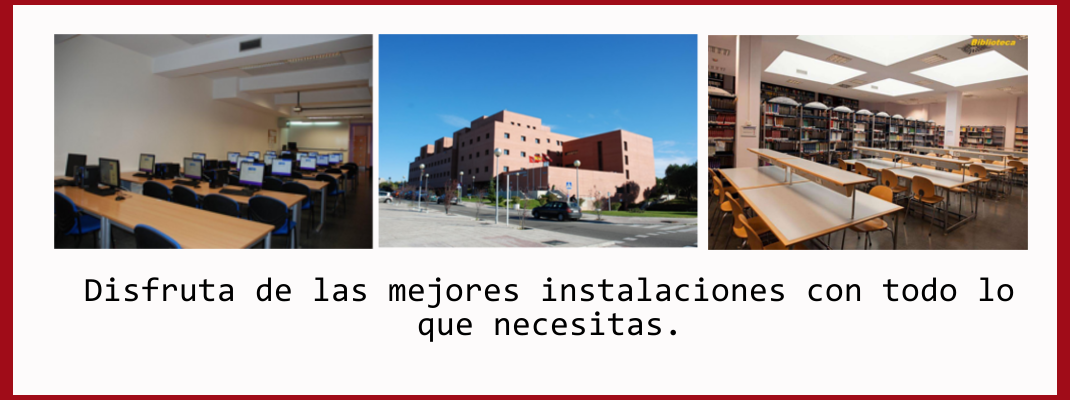
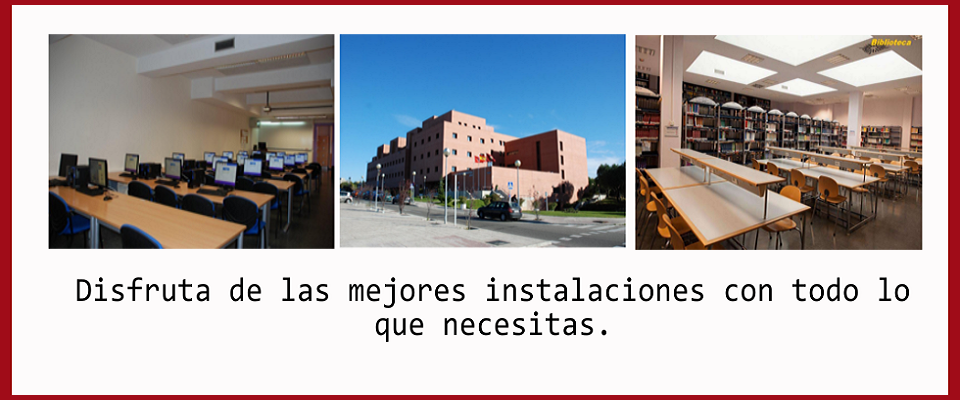
Arreglados slider, imágenes , texto y encales listo para merge con master

diff --git a/semanaDeLaCiencia.html b/semanaDeLaCiencia.html
@@ -100,14 +100,13 @@
 		<div class="spacer"></div>
 <div class="barra_nav"><a href="http://informatica.ucm.es/" title="Portada">Portada</a>&nbsp;»&nbsp;<a href="http://informatica.ucm.es/facultad" title="Facultad">Facultad</a>&nbsp;»&nbsp;<a href="http://informatica.ucm.es/eventos" title="Eventos">Eventos</a>&nbsp;»&nbsp;Semana de la Ciencia 2015</div>
 <h1>Semana de la Ciencia 2015</h1>
-<h2></h2>
 <div class="template_100_100" id="marco_01">
 	<div class="column" id="lista_1">
 	
 	<div class="wg_txt">
 				<div>
 				<!--En lugar de semana de la ciencia irá este título-->
-				<h1>Porque estudiar Informática en la UCM </h1>		
+					
 				<!--MODIFICAR A PARTIR DE AQUÍ-->
 					<div id="slider">
 						<section>
@@ -128,52 +127,14 @@
 											<img style="display: block; margin-left: auto; margin-right: auto;" title="slide3" src="Facultad%20de%20Inform%C3%A1tica.%20Universidad%20Complutense%20de%20Madrid_files/slide3.png" alt="Slide1"></th>
 										</article>                            
 									</div>
+									
 								</div>
 							</div>
 						</section>            
 					</div>
-					<h1>¿Qué es la informática?</h1>
-					<div id="texto" style ="width: 90%;margin-top: 30px;">
-					<p style="font-size: 1.25em;">
-					La informática es la ciencia que estudia el Tratamiento Automático de la Información.
-					La información son los datos, y el tratamiento de estos datos se hace mediante los sistemas informáticos que son los llamados Ordenadores.
-					Manejar un procesador de textos no se considera informática, sino ofimática, pero crear un programa con el que podamos editar textos si lo es.
-					<p>
-					</div>
-					<h1>Grados:</h1>
-			
-					<style type="text/css">
-						.tabla  {border-collapse:collapse;border-spacing:0;margin: 0 auto;}
-						.tabla td{font-family:Arial, sans-serif;font-size:14px;padding:14px 14px;border-style:hidden;border-width:0px;overflow:hidden;word-break:normal;}
-						.tabla th{font-family:Arial, sans-serif;font-size:14px;font-weight:normal;padding:14px 14px;border-style:hidden;border-width:0px;overflow:hidden;word-break:normal;}
-						.tabla .fila-nombre{color:#000000;text-align:center;vertical-align:top; border-style:hidden;font-size: 1.25em;}
-					</style>
-					
-					<table class="tabla">
-					  <tr>
-						<th class="fila-img"><a href="GradoDeIngeneriaInformatica.html"><img style="display: block; margin-left: auto; margin-right: auto;border-radius: 26px 0;" title="Grado Ingeniería Informática" src="Facultad%20de%20Inform%C3%A1tica.%20Universidad%20Complutense%20de%20Madrid_files/gradoinfor.png" alt="Grado Ingeniería Informática"></a></th>
-						<th class="fila-img"><img style="display: block; margin-left: auto; margin-right: auto;border-radius: 26px 0;" title="Doble Grado Ingeniería Informática - Matemáticas" src="Facultad%20de%20Inform%C3%A1tica.%20Universidad%20Complutense%20de%20Madrid_files/dobleinfomates.png" alt="Doble Grado Ingeniería Informática - Matemáticas"></th>
-						<th class="fila-img"><img style="display: block; margin-left: auto; margin-right: auto;border-radius: 26px 0;" title="Grado Ingeniería del Software" src="Facultad%20de%20Inform%C3%A1tica.%20Universidad%20Complutense%20de%20Madrid_files/gradosoft.png" alt="Grado Ingeniería del Software"></th>
-						
-					  </tr>	
-					  <tr>
-						<td class="fila-nombre"><a href="GradoDeIngeneriaInformatica.html">Ingeniería Informática</a></td>
-						<td class="fila-nombre">Ingeniería Informática -  Matemáticas</td>
-						<td class="fila-nombre">Ingeniería del Software</td>
-					  </tr>
-					</table>
-					<table class="tabla">
-					  <tr>
-						<th class="fila-img"><img style="display: block; margin-left: auto; margin-right: auto;border-radius: 26px 0;" title="Grado Ingeniería de Computadores" src="Facultad%20de%20Inform%C3%A1tica.%20Universidad%20Complutense%20de%20Madrid_files/gradocompu.png" alt="Grado Ingeniería de Computadores"></th>
-						<th class="fila-img"><img style="display: block; margin-left: auto; margin-right: auto;border-radius: 26px 0;" title="Grado en desarrollo de Videojuegos" src="Facultad%20de%20Inform%C3%A1tica.%20Universidad%20Complutense%20de%20Madrid_files/gradovideo.png" alt="Grado en desarrollo de Videojuegos"></th>
-					  </tr>	
-					  <tr>
-						<td class="fila-nombre">Ingeniería de Computadores</td>
-						<td class="fila-nombre">Desarrollo de Videojuegos</td>
-					  </tr>
-					</table>
-					
-				<div id="texto" style ="width: 90%;margin-top: 30px;">
+					</br>
+					<h1>¿Por qué estudiar Informática en la UCM? </h1>	
+						<div id="texto" style ="width: 90%;margin-top: 30px;">
 				<p style="font-size: 1.25em;">
 					Si estás pensando en estudiar la carrera de informática deberías saber que la <strong>Universidad Complutense de Madrid</strong>  fue <strong>pionera</strong> en España en el área de informática en temas de investigación y docencia <strong>¡hace más de medio siglo!</strong> 
 				</p>
@@ -192,6 +153,67 @@
 
 				</p>
 				</div>
+					
+					<h1>¿Qué es la informática?</h1>
+					<div id="texto" style ="width: 90%;margin-top: 30px;">
+					<p style="font-size: 1.25em;">
+					La informática es la ciencia que estudia el Tratamiento Automático de la Información.
+					La información son los datos, y el tratamiento de estos datos se hace mediante los sistemas informáticos que son los llamados Ordenadores.
+					Manejar un procesador de textos no se considera informática, sino ofimática, pero crear un programa con el que podamos editar textos si lo es.
+					<p>
+					</div>
+					</br>
+					<h1>¿Por qué estudiar informática?</h1>
+					</br>
+					<ul style="font-size: 1.25em;">
+					<li type="disc">La informática forma parte de todo lo que hacemos. </li>
+					<li type="disc">La experiencia en cuestiones informáticas permite resolver problemas complejos y que constituyen un desafío. </li>
+					<li type="disc">La Informática permite hacer una cambio positivo en el mundo que nos rodea. </li>
+					<li type="disc">La Informática proporciona diversos tipos de lucrativas carreras profesionales. </li>
+					<li type="disc">El trabajo en Informática será fundamental, independientemente de dónde se ubiquen físicamente las personas.</li>
+					<A name="Asignaturas primer año"></A>
+					<li type="disc">La experiencia en Informática sirve de ayuda, incluso aunque esta no sea la parte principal del trabajo. </li>
+					<li type="disc">La Informática ofrece grandes oportunidades de creatividad e innovación. </li>
+					<li type="disc">La informática incentiva el trabajo colaborativo pero también el esfuerzo individual. </li>
+					<li type="disc">La Informática es una parte esencial de una preparación académica completa. </li>
+					<li type="disc">Las oportunidades futuras en informática no tienen fronteras. </li>
+					</ul>
+					</br>
+					
+					<h1>Grados:</h1>
+			
+					<style type="text/css">
+						.tabla  {border-collapse:collapse;border-spacing:0;margin: 0 auto;}
+						.tabla td{font-family:Arial, sans-serif;font-size:14px;padding:14px 14px;border-style:hidden;border-width:0px;overflow:hidden;word-break:normal;}
+						.tabla th{font-family:Arial, sans-serif;font-size:14px;font-weight:normal;padding:14px 14px;border-style:hidden;border-width:0px;overflow:hidden;word-break:normal;}
+						.tabla .fila-nombre{color:#000000;text-align:center;vertical-align:top; border-style:hidden;font-size: 1.25em;}
+					</style>
+					
+					<table class="tabla">
+					  <tr>
+						<th class="fila-img"><a href="GradoDeIngeneriaInformatica.html"><img style="display: block; margin-left: auto; margin-right: auto;border-radius: 26px 0;" title="Grado Ingeniería Informática" src="Facultad%20de%20Inform%C3%A1tica.%20Universidad%20Complutense%20de%20Madrid_files/gradoinfor.png" alt="Grado Ingeniería Informática"></a></th>
+						<th class="fila-img"><img style="display: block; margin-left: auto; margin-right: auto;border-radius: 26px 0;" title="Doble Grado Ingeniería Informática - Matemáticas" src="Facultad%20de%20Inform%C3%A1tica.%20Universidad%20Complutense%20de%20Madrid_files/dobleinfomates.png" alt="Doble Grado Ingeniería Informática - Matemáticas"></th>
+						<th class="fila-img"><img style="display: block; margin-left: auto; margin-right: auto;border-radius: 26px 0;" title="Grado Ingeniería del Software" src="Facultad%20de%20Inform%C3%A1tica.%20Universidad%20Complutense%20de%20Madrid_files/gradosoft.png" alt="Grado Ingeniería del Software"></th>
+						
+					  </tr>	
+					  <tr>
+						<td class="fila-nombre"><a href="GradoDeIngenieriaInformatica.html">Ingeniería Informática</a></td>
+						<td class="fila-nombre"><a href="DobleGrado.html">Ingeniería Informática -  Matemáticas</td>
+						<td class="fila-nombre"><a href="GradoDeIngenieriaSoftware.html">Ingeniería del Software</td>
+					  </tr>
+					</table>
+					<table class="tabla">
+					  <tr>
+						<th class="fila-img"><img style="display: block; margin-left: auto; margin-right: auto;border-radius: 26px 0;" title="Grado Ingeniería de Computadores" src="Facultad%20de%20Inform%C3%A1tica.%20Universidad%20Complutense%20de%20Madrid_files/gradocompu.png" alt="Grado Ingeniería de Computadores"></th>
+						<th class="fila-img"><img style="display: block; margin-left: auto; margin-right: auto;border-radius: 26px 0;" title="Grado en desarrollo de Videojuegos" src="Facultad%20de%20Inform%C3%A1tica.%20Universidad%20Complutense%20de%20Madrid_files/gradovideo.png" alt="Grado en desarrollo de Videojuegos"><a href="GradoDesarrolloVideojuegos.html"></th>
+					  </tr>	
+					  <tr>
+						<td class="fila-nombre"><a href="GradoDeIngenieriaComputadores.html">Ingeniería de Computadores</td>
+						<td class="fila-nombre"><a href="GradoDesarrolloVideojuegos.html">Desarrollo de Videojuegos</td>
+					  </tr>
+					</table>
+					
+			
 				</div>
 	<div class="spacer"><br></div>
 	</div>	</div>

diff --git a/Facultad de Informática. Universidad Complutense de Madrid_files/normal.css b/Facultad de Informática. Universidad Complutense de Madrid_files/normal.css
@@ -2885,10 +2885,10 @@ li.iniciasesion{
 
 #slider-container {
     height: 20%;
-    margin: 0 auto;
     overflow: hidden;
     text-align: left;
-    width: 80%;
+    width: 85.7%;
+	margin-left: 8.3%;
 }
 
 
